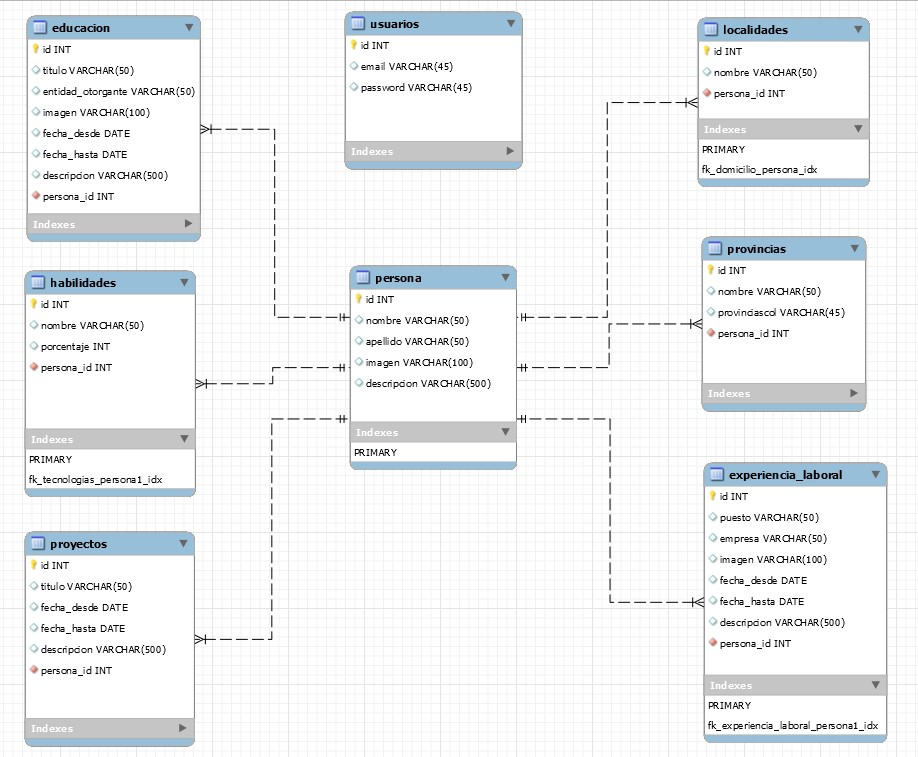
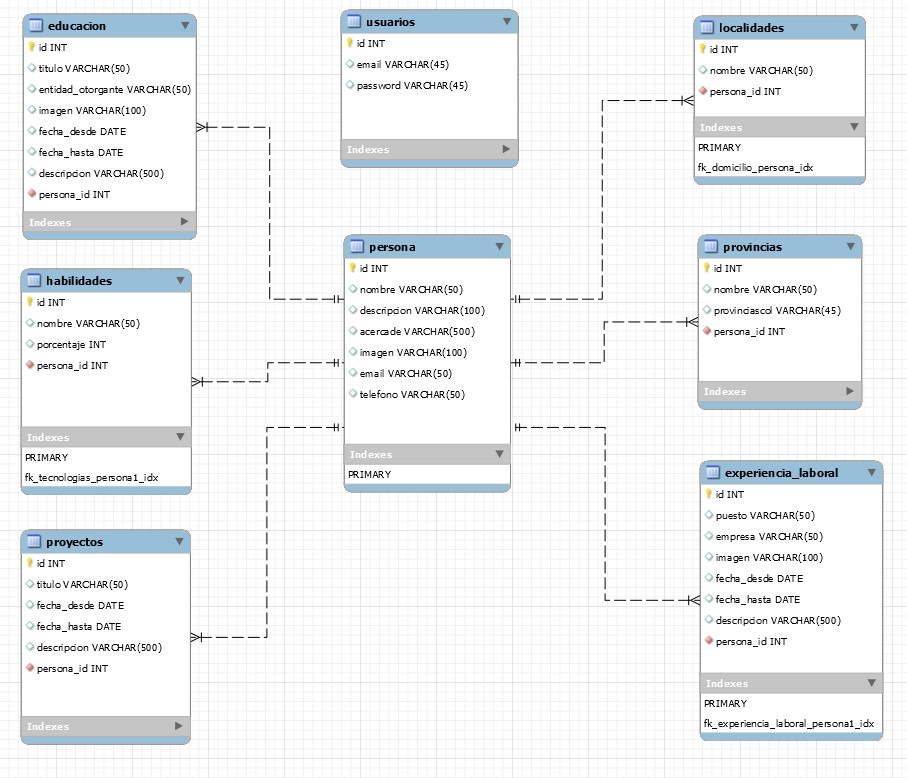
Entidades Usuario y Persona

diff --git a/src/main/java/com/portfoliobackend/controller/PersonaController.java b/src/main/java/com/portfoliobackend/controller/PersonaController.java
@@ -2,31 +2,68 @@ package com.portfoliobackend.controller;
 
 import com.portfoliobackend.model.Persona;
 import com.portfoliobackend.service.PersonaService;
-import java.util.ArrayList;
-import java.util.List;
 import org.springframework.beans.factory.annotation.Autowired;
+import org.springframework.http.HttpStatus;
+import org.springframework.http.ResponseEntity;
+import org.springframework.web.bind.annotation.CrossOrigin;
 import org.springframework.web.bind.annotation.GetMapping;
 import org.springframework.web.bind.annotation.PathVariable;
-import org.springframework.web.bind.annotation.ResponseBody;
+import org.springframework.web.bind.annotation.RequestMapping;
 import org.springframework.web.bind.annotation.RestController;
 
 
 @RestController
+@RequestMapping(path = "/api/datos-personales")
+@CrossOrigin(origins = "http://localhost:4200")
 public class PersonaController {
     
     @Autowired
     public PersonaService personaService;
     
-    @GetMapping("/persona/todas")
-    @ResponseBody
-    public List<Persona> obtenerListado(){
-        return personaService.obtenerPersonas();
+    @GetMapping()
+    public ResponseEntity<Persona> obtenerPersona(){
+        //return personaService.obtenerPersona();
+        return new ResponseEntity(personaService.obtenerPersona(), HttpStatus.OK);
     }
     
-    @GetMapping("/persona/{id}")
-    @ResponseBody
-    public Persona obtenerListado(@PathVariable Long id){
-        return personaService.buscarPersona(id);
+    @GetMapping("/{id}")
+    public ResponseEntity<Persona> obtenerPersonaById(@PathVariable Long id){
+        //return personaService.buscarPersona(id);
+        return ResponseEntity.ok(personaService.buscarPersona(id));
     }    
+    
+    
+    /*@PostMapping
+    public ResponseEntity<Paciente> registrar(@RequestBody Paciente paciente){
+        return ResponseEntity.ok(pacienteService.guardar(paciente)) ;
+    }
+
+    @PutMapping
+    public ResponseEntity<Paciente> actualizar(@RequestBody Paciente paciente){
+        //return pacienteService.actualizar(paciente);
+        ResponseEntity<Paciente> response;
+        //Verificar si el ID es distinto de NULL y si el paciente existe
+        if (paciente.getId() != null && pacienteService.buscar(paciente.getId()) != null){
+            response= ResponseEntity.ok(pacienteService.actualizar(paciente));
+        }else{
+            response= ResponseEntity.status(HttpStatus.NOT_FOUND).build();
+        }
+        return response;
+    }
+
+    @DeleteMapping("/{id}")
+    public ResponseEntity<String> eliminar(@PathVariable Integer id)throws ResourceNotFoundException {
+        ResponseEntity<String> response;
+        pacienteService.eliminar(id);
+
+        response= ResponseEntity.status(HttpStatus.OK).body("Eliminado");
+        return response;
+    }
+
+    @GetMapping("/{id}")
+    public ResponseEntity<Paciente> buscarPorId(@PathVariable Integer id){
+        return ResponseEntity.ok(pacienteService.buscar(id));
+    } */   
+    
     
 }

diff --git a/src/main/java/com/portfoliobackend/controller/UsuarioController.java b/src/main/java/com/portfoliobackend/controller/UsuarioController.java
@@ -1,0 +1,31 @@
+
+package com.portfoliobackend.controller;
+
+import com.portfoliobackend.dto.Credenciales;
+import com.portfoliobackend.model.Usuario;
+import com.portfoliobackend.service.UsuarioService;
+import org.springframework.beans.factory.annotation.Autowired;
+import org.springframework.http.ResponseEntity;
+import org.springframework.web.bind.annotation.CrossOrigin;
+import org.springframework.web.bind.annotation.PostMapping;
+import org.springframework.web.bind.annotation.RequestBody;
+import org.springframework.web.bind.annotation.RequestMapping;
+import org.springframework.web.bind.annotation.RestController;
+
+@RestController
+@RequestMapping(path = "/api")
+@CrossOrigin(origins = "http://localhost:4200")
+public class UsuarioController {
+    
+    @Autowired
+    public UsuarioService usuarioService;
+    
+    
+    @PostMapping("/login")
+    public ResponseEntity<Usuario> obtenerUsuario(@RequestBody Credenciales credencial){
+        //return usuarioService.obtenerPorEmailyPassword(credencial.getEmail(), credencial.getPassword());
+        Usuario usuario = usuarioService.obtenerPorEmailyPassword(credencial.getEmail(), credencial.getPassword());
+        return ResponseEntity.ok(usuario);
+    }    
+    
+}

diff --git a/src/main/java/com/portfoliobackend/model/Usuario.java b/src/main/java/com/portfoliobackend/model/Usuario.java
@@ -5,29 +5,33 @@ import javax.persistence.Entity;
 import javax.persistence.GeneratedValue;
 import javax.persistence.GenerationType;
 import javax.persistence.Id;
+import javax.persistence.OneToOne;
 import javax.persistence.Table;
 import lombok.Getter;
 import lombok.Setter;
 
 @Setter @Getter
 @Entity
-@Table(name = "persona")
-public class Persona implements Serializable {
+@Table(name = "usuarios")
+public class Usuario implements Serializable {
     //Atributos
     @Id
     @GeneratedValue(strategy = GenerationType.AUTO)
     private Long id;
-    private String nombre;
-    private String descripcion;
-    private String acercade; 
-    private String imagen;
     private String email;
-    private String telefono;
-
-    public Persona() {
+    private String password;    
+    
+    
+    public Usuario() {
     }
 
-
+    public Usuario(Long id, String email, String password) {
+        this.id = id;
+        this.email = email;
+        this.password = password;
+    }
+    
+    
     
     
     

diff --git a/src/main/java/com/portfoliobackend/service/UsuarioService.java b/src/main/java/com/portfoliobackend/service/UsuarioService.java
@@ -1,0 +1,35 @@
+package com.portfoliobackend.service;
+
+
+import com.portfoliobackend.model.Usuario;
+import com.portfoliobackend.repository.UsuarioRepository;
+import java.util.List;
+import org.springframework.beans.factory.annotation.Autowired;
+import org.springframework.stereotype.Service;
+
+
+@Service
+public class UsuarioService implements IUsuarioService{
+    
+    @Autowired
+    public UsuarioRepository usuarioRepository;
+    
+    
+    @Override
+    public List<Usuario> obtenerUsuarios() {
+        return usuarioRepository.findAll();
+    }    
+    
+    
+    public Usuario obtenerPorEmailyPassword(String email, String password){
+        List<Usuario> list = usuarioRepository.findByEmailAndPassword(email, password);
+        if (!list.isEmpty()){
+            return list.get(0);
+        }else{
+            return null;
+        }
+    }
+
+
+    
+}

diff --git a/src/main/java/com/portfoliobackend/service/PersonaService.java b/src/main/java/com/portfoliobackend/service/PersonaService.java
@@ -14,8 +14,13 @@ public class PersonaService implements IPersonaService{
     
 
     @Override
-    public List<Persona> obtenerPersonas() {
-        return personaRepository.findAll();
+    public Persona obtenerPersona() {
+        List<Persona> list = personaRepository.findAll();
+        if (!list.isEmpty()){
+            return list.get(0);
+        }else{
+            return null;
+        }        
     }
 
     @Override

diff --git a/src/main/java/com/portfoliobackend/repository/UsuarioRepository.java b/src/main/java/com/portfoliobackend/repository/UsuarioRepository.java
@@ -1,0 +1,13 @@
+package com.portfoliobackend.repository;
+
+import com.portfoliobackend.model.Usuario;
+import java.util.List;
+import org.springframework.data.jpa.repository.JpaRepository;
+import org.springframework.stereotype.Repository;
+
+@Repository
+public interface UsuarioRepository extends JpaRepository<Usuario, Long> {
+    
+    public List<Usuario> findByEmailAndPassword(String email, String password);
+    
+}

diff --git a/src/main/java/com/portfoliobackend/service/IPersonaService.java b/src/main/java/com/portfoliobackend/service/IPersonaService.java
@@ -1,12 +1,11 @@
 package com.portfoliobackend.service;
 
 import com.portfoliobackend.model.Persona;
-import java.util.List;
 
 
 public interface IPersonaService {
     
-    public List<Persona> obtenerPersonas();
+    public Persona obtenerPersona();
     public Persona buscarPersona (Long id);   
     //public void borrarPersona (Long id);
     //public void crearPersona (Persona per);

diff --git a/src/main/java/com/portfoliobackend/service/IUsuarioService.java b/src/main/java/com/portfoliobackend/service/IUsuarioService.java
@@ -1,0 +1,12 @@
+package com.portfoliobackend.service;
+
+
+import com.portfoliobackend.model.Usuario;
+import java.util.List;
+
+
+public interface IUsuarioService {
+    
+    public List<Usuario> obtenerUsuarios();
+    
+}

diff --git a/src/main/java/com/portfoliobackend/dto/Credenciales.java b/src/main/java/com/portfoliobackend/dto/Credenciales.java
@@ -1,0 +1,10 @@
+package com.portfoliobackend.dto;
+
+import lombok.Getter;
+import lombok.Setter;
+
+@Setter @Getter
+public class Credenciales {
+    private String email;
+    private String password;       
+}
